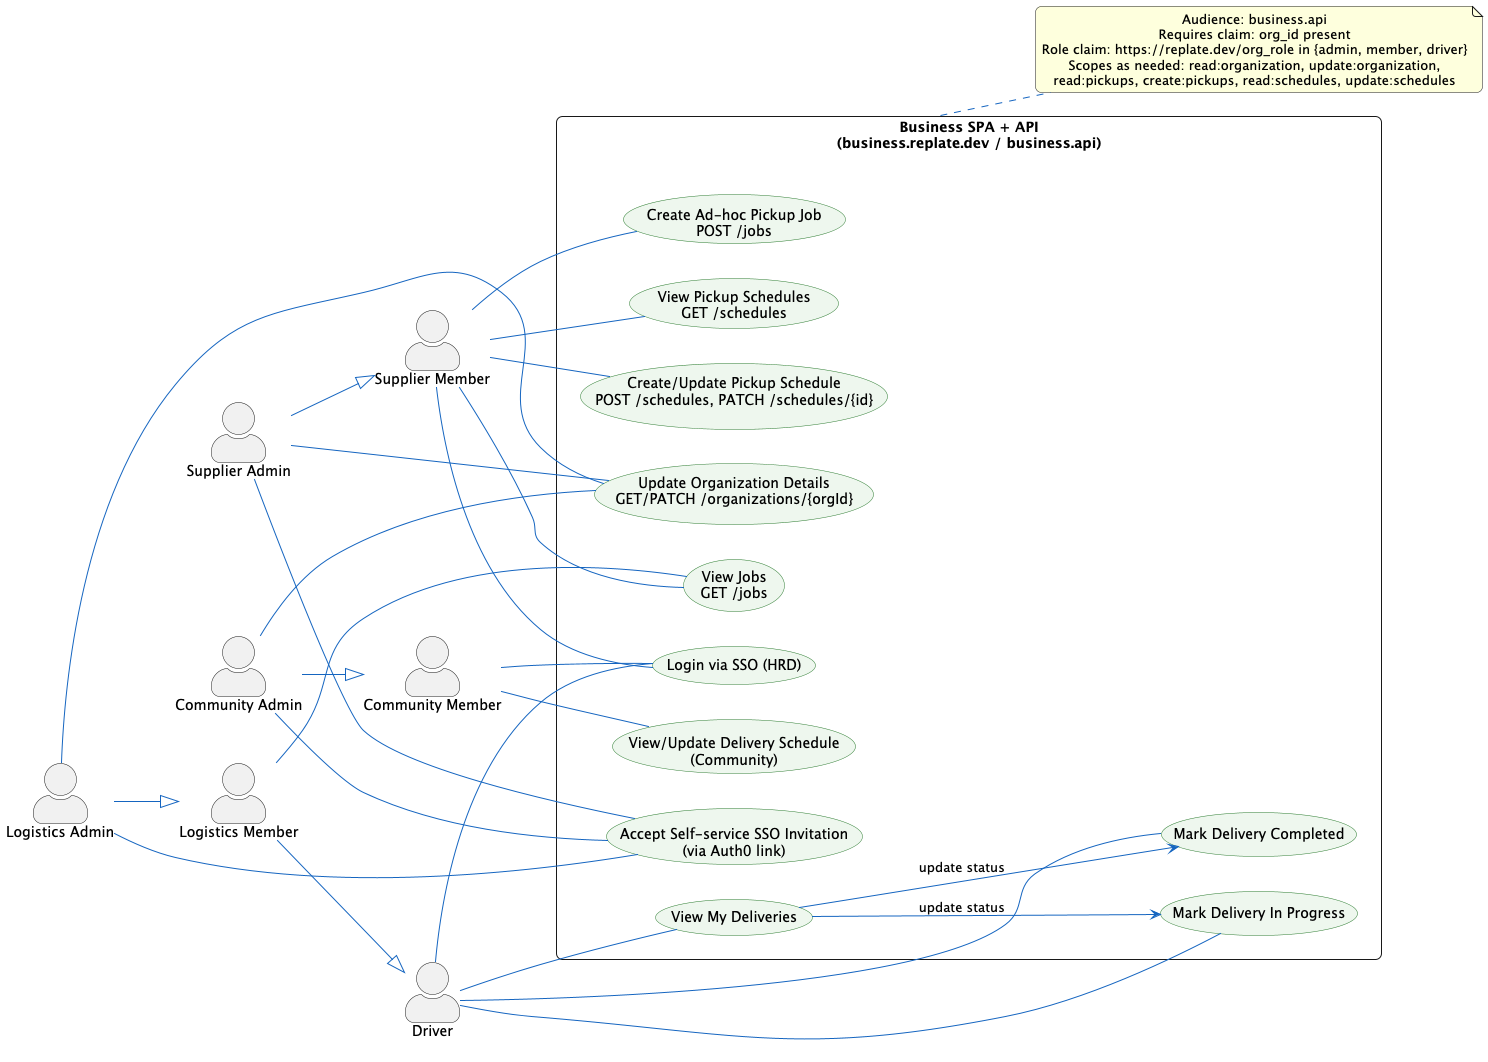
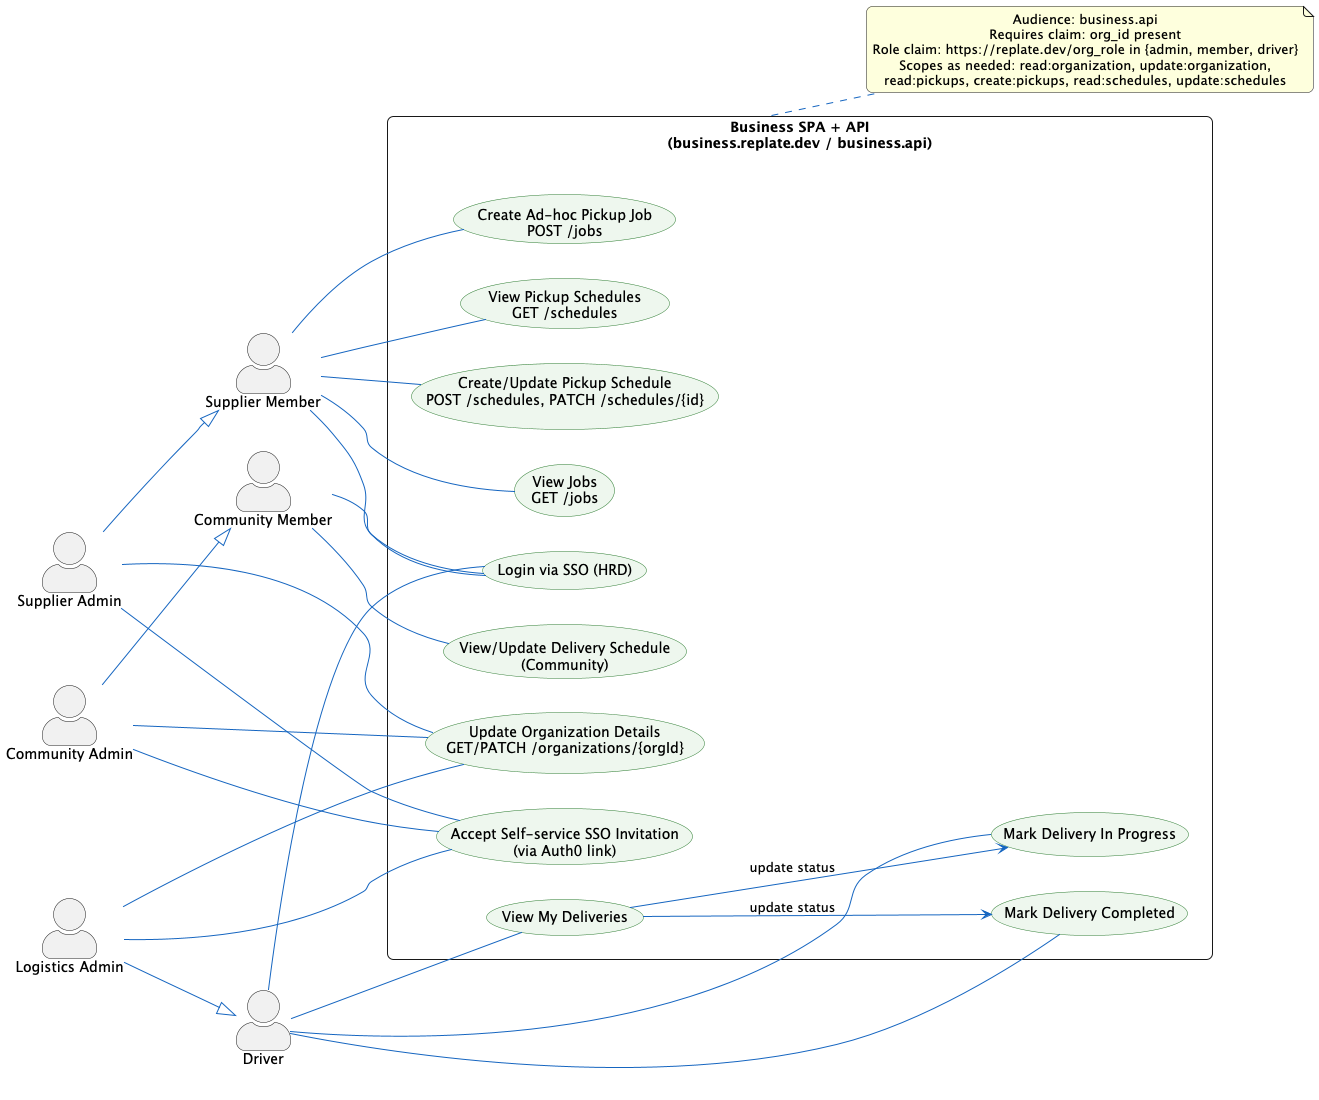
updating readme to match diagram (3)

diff --git a/readme.md b/readme.md
@@ -169,15 +169,6 @@ Logistics Admin is a member of the logistics organisation in Auth0
    workforce IDP.
 2. **Update the details** of the logistics company.
 
-#### Logistics Member
-
-Logistics Member is a member of a logistics organisation in Auth0.
-
-1. Can **log in** to the business website with the SSO that their admin has set up. SSO is powered with HRD (Home Realm Discovery), such as when email is matched for the company domain, like `member@logistics.com`, the user is redirected
-   to the logistic's IdP at `idp.logistics.com`
-2. Can **view and update pick-up schedule**.
-3. Can **request ad-hoc pick up**.
-
 #### Driver
 
 Driver is a member of the logistics organisation in Auth0
